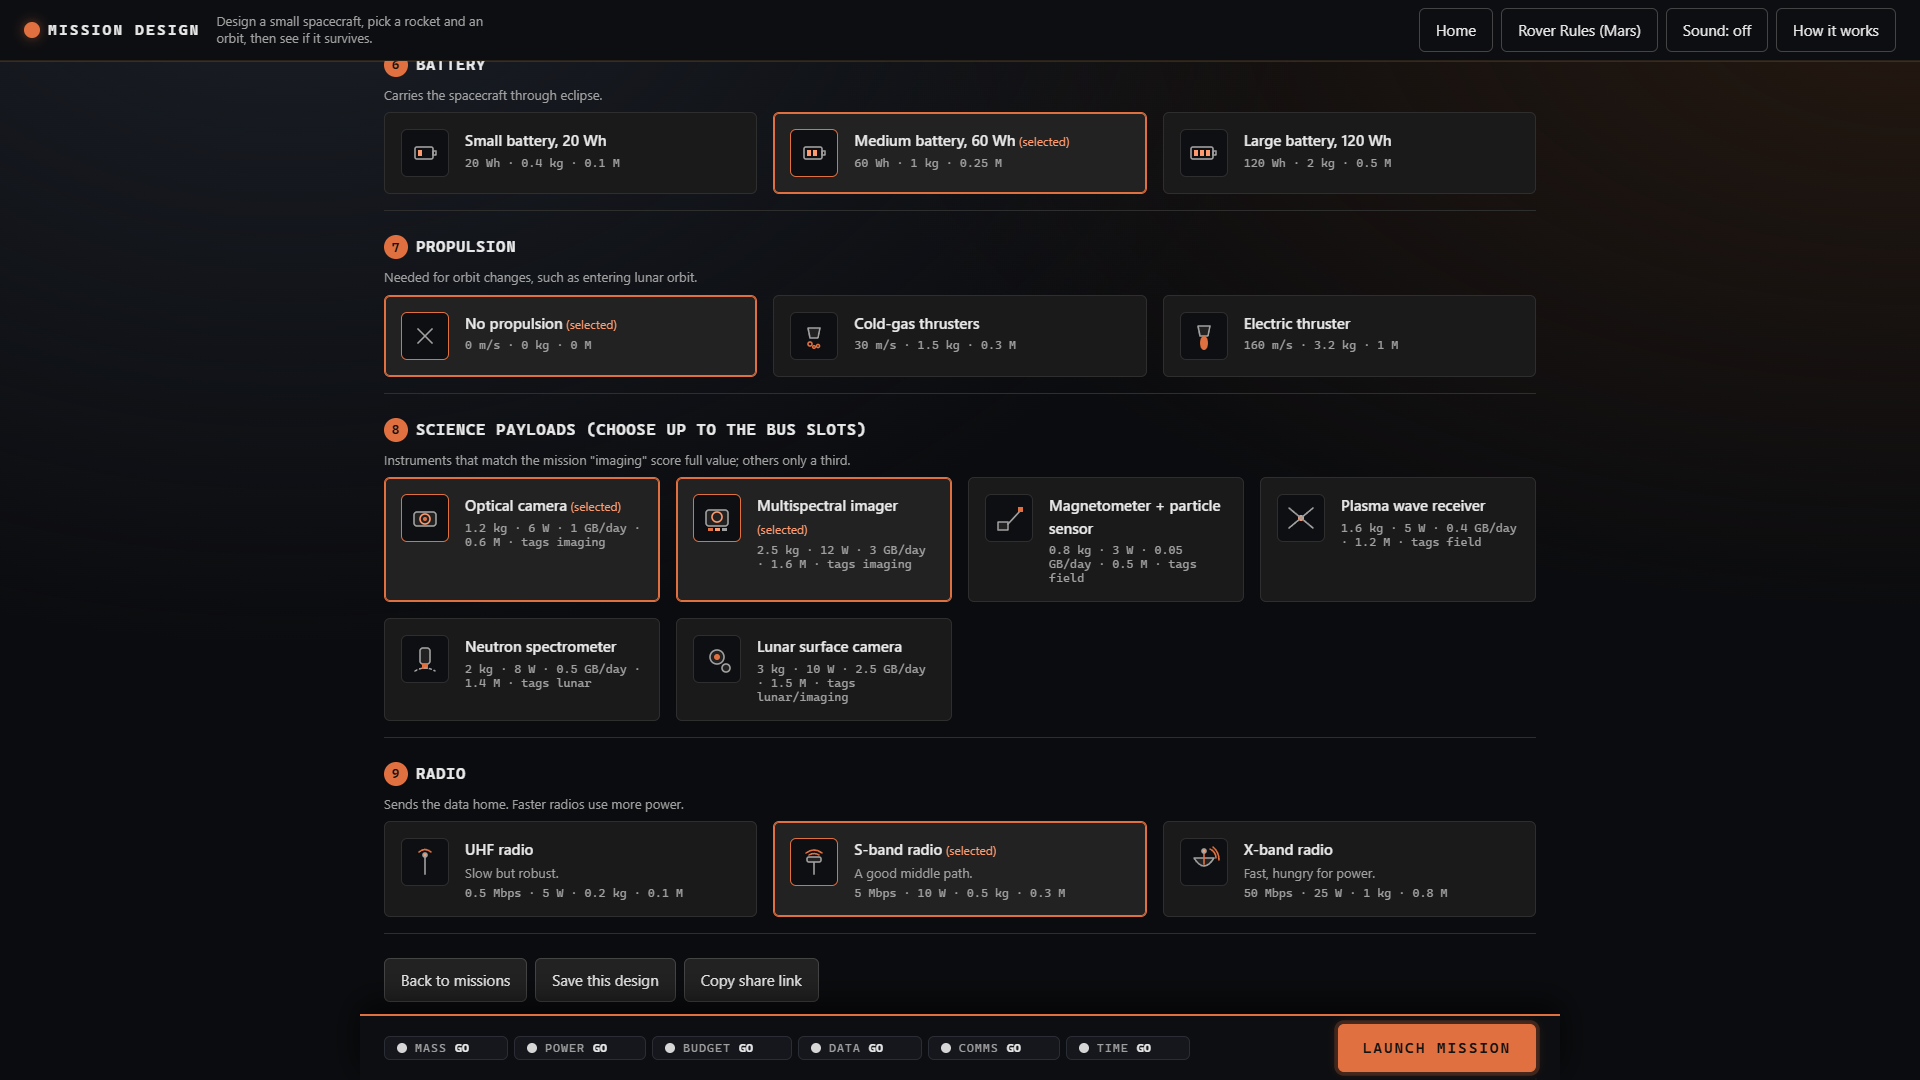
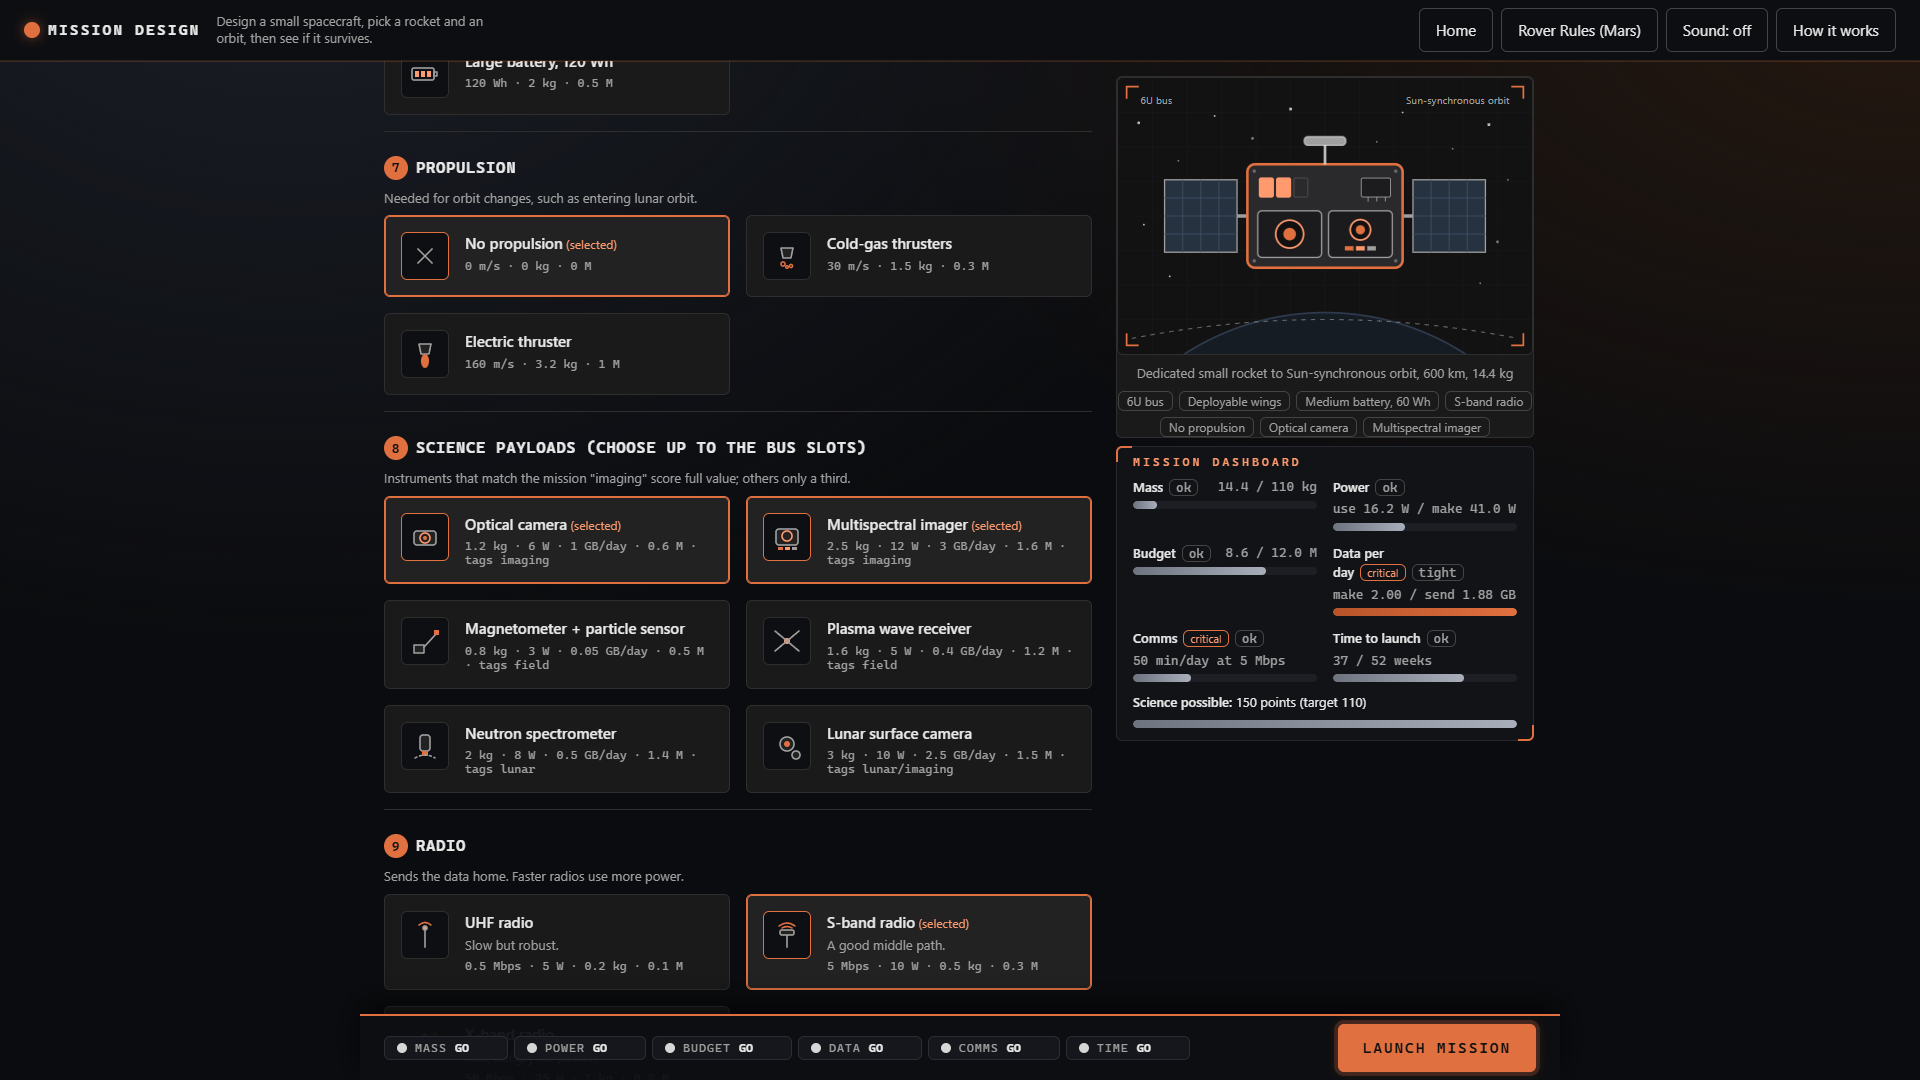
Build screen: spacecraft and six-limit readouts stay in view while scrolling (sticky side column on desktop, sticky top on phone), compact launch bar on phone, test
Claude-Session: https://claude.ai/code/session_01EwYtihfGyNyLM5DBENJYFK

diff --git a/rover/game.css b/rover/game.css
@@ -8,7 +8,7 @@ main { padding-top: var(--s2); }
 @keyframes enter { from { opacity: 0; transform: translateY(8px); } to { opacity: 1; transform: none; } }
 
 /* HUD panels: corner brackets */
-.card, .dash.hangar { position: relative; background: #121317; border-color: #262930; }
+.card { position: relative; background: #121317; border-color: #262930; }
 .card::before, .card::after { content: ""; position: absolute; width: 14px; height: 14px; border: 2px solid var(--accent); pointer-events: none; }
 .card::before { top: -1px; left: -1px; border-right: 0; border-bottom: 0; border-top-left-radius: var(--r); }
 .card::after { bottom: -1px; right: -1px; border-left: 0; border-top: 0; border-bottom-right-radius: var(--r); }
@@ -40,8 +40,6 @@ main { padding-top: var(--s2); }
 .panel-col .grp > h3 { font-size: 16px; letter-spacing: .04em; text-transform: uppercase; font-family: var(--mono); }
 
 /* hangar: spacecraft stage + HUD readouts */
-.dash.hangar { position: static !important; display: grid; grid-template-columns: minmax(300px, 500px) minmax(0, 1fr); gap: var(--s3); align-items: start; margin-bottom: var(--s3); padding: var(--s2); }
-.dash.hangar figure.stage { margin: 0; }
 .hudcol h3 { font: 600 12px var(--mono); letter-spacing: .24em; text-transform: uppercase; color: var(--accent-hi); margin: 0 0 var(--s1); }
 .hudgrid { display: grid; grid-template-columns: repeat(auto-fit, minmax(230px, 1fr)); gap: 4px var(--s3); }
 .hudgrid .res { margin: 0 0 var(--s1); }
@@ -51,7 +49,6 @@ main { padding-top: var(--s2); }
 .bar > i { border-radius: 4px; background: linear-gradient(90deg, #6d7480, #a8afba); }
 .bar.warn > i { background: linear-gradient(90deg, #b8542a, var(--accent)); }
 .bar.bad > i { background: linear-gradient(90deg, var(--accent), var(--accent-hi)); }
-@media (max-width: 900px) { .dash.hangar { grid-template-columns: 1fr; } }
 
 /* sticky pre-launch bar */
 .launchbar { position: sticky; bottom: 0; z-index: 8; display: flex; flex-wrap: wrap; align-items: center; justify-content: space-between; gap: var(--s2); margin: var(--s3) calc(var(--s3) * -1) 0; padding: var(--s1) var(--s3); background: #0d0e11f2; border-top: 2px solid var(--accent); box-shadow: 0 -10px 30px #000a; }
@@ -120,9 +117,38 @@ svg.liftoff.go .streak { animation: streak .45s linear infinite; }
 @media (max-width: 700px) { .launchbar { margin-left: calc(var(--s2) * -1); margin-right: calc(var(--s2) * -1); padding: var(--s1) var(--s2); } }
 
 .res .row { flex-wrap: wrap; row-gap: 2px; } .res .stat { white-space: nowrap; }
-.hudcol .hint { margin: 0 0 var(--s2); }
 .fl-scene.orbit svg { aspect-ratio: 480 / 320; }
 .fl-scene.flare svg { outline: 3px solid var(--accent-hi); box-shadow: 0 0 36px #e0703f66; }
 .fl-scene.outage svg { outline: 3px dashed var(--dim); }
 .fl-grid:has(.fl-scene.orbit) { grid-template-columns: minmax(300px, 480px) minmax(0, 1fr); }
 .badgebox { display:grid; grid-template-columns:repeat(auto-fit,minmax(230px,1fr)); gap:8px; margin-top:var(--s1); } .badgebox .badge-new { margin-top:0; }
+
+/* build screen: the spacecraft stays in view while you scroll through the parts */
+.build-grid { display: block; }
+.dash.side { position: static; }
+.dash.side figure.stage { margin: 0 0 var(--s1); }
+.dash.side .hudcol { padding: var(--s1) var(--s2); }
+.hudgrid { grid-template-columns: 1fr 1fr; gap: 2px var(--s2); }
+.hudgrid .res { margin: 0 0 6px; }
+@media (min-width: 901px) {
+  .build-grid { display: grid; grid-template-columns: minmax(0, 1fr) 420px; gap: var(--s3); align-items: start; }
+  .build-grid > .side { grid-column: 2; grid-row: 1; position: sticky; top: 76px; max-height: calc(100vh - 156px); overflow-y: auto; padding-right: 2px; scrollbar-width: thin; }
+  .build-grid > .panel-col { grid-column: 1; grid-row: 1; min-width: 0; }
+}
+@media (max-width: 900px) {
+  header { position: static; }
+  .build-grid > .side { display: contents; }
+  .build-grid > .side figure.stage { position: sticky; top: 0; z-index: 7; margin: 0 calc(var(--s2) * -1) var(--s2); padding: 6px var(--s2); background: #0b0c0f; border-bottom: 1px solid #2a2118; }
+  .build-grid > .side figure.stage svg.craft { max-height: 150px; width: auto; max-width: 100%; margin: 0 auto; border: 0; }
+  .build-grid > .side figure.stage figcaption, .build-grid > .side figure.stage ul.legend { display: none; }
+  .hudgrid { grid-template-columns: 1fr; }
+}
+@media (min-width: 901px) { .build-grid { padding-bottom: 120px; } }
+@media (max-width: 700px) {
+  .gng { display: grid; grid-template-columns: repeat(3, 1fr); gap: 4px; width: 100%; }
+  .gng li { padding: 3px 8px; font-size: 11px; gap: 6px; }
+  .gng li b { min-width: 0; }
+  .lb-actions { width: 100%; }
+  .lb-actions .btn.go-btn { width: 100%; justify-content: center; }
+  .launchbar { gap: 6px; }
+}

diff --git a/rover/src/md_ui.js b/rover/src/md_ui.js
@@ -157,7 +157,7 @@
       h("div", { class: "row" }, h("span", {}, h("b", {}, label), crit(key), h("span", { class: "stat" + (over ? " bad" : "") }, over ? "over the limit" : used / (cap || 1) > 0.9 ? "tight" : "ok")), h("span", {}, text)),
       h("div", { class: "bar " + (over ? "bad" : used / (cap || 1) > 0.9 ? "warn" : "") }, h("i", { style: `width:${clampPct((used / (cap || 1)) * 100)}%` })),
       h("p", { class: "why" }, WHY[key]));
-    return h("aside", { class: "dash card hangar" }, craftSVG(G.design, A), h("div", { class: "hudcol" }, h("h3", {}, "Mission dashboard"), h("div", { class: "hint" }, h("b", {}, sc.title + ": "), sc.objective, " ", sc.hint), h("div", { class: "hudgrid" },
+    return h("aside", { class: "dash side", tabindex: "0", "aria-label": "Your spacecraft and the six limits" }, craftSVG(G.design, A), h("div", { class: "hudcol card" }, h("h3", {}, "Mission dashboard"), h("div", { class: "hudgrid" },
       res("mass", "Mass", A.mass.used, A.mass.cap || 1, A.mass.cap ? `${num(A.mass.used)} / ${A.mass.cap} kg` : `${num(A.mass.used)} kg, this rocket cannot reach this orbit`, A.mass.used > A.mass.cap),
       res("power", "Power", A.power.load, Math.max(A.power.gen, 0.1), `use ${num(A.power.load)} W / make ${num(A.power.gen)} W`, A.power.gen < A.power.load),
       res("budget", "Budget", A.budget.used, A.budget.cap, `${num(A.budget.used)} / ${num(A.budget.cap)} M`, A.budget.used > A.budget.cap),
@@ -181,7 +181,7 @@
     const d = G.design, sc = MD.SCENARIOS[d.scenario], A = MD.analyse(d), roles = Object.keys(MD.ROLES);
     const owned = G.role === "all" ? ["launcher", "orbit", "ground", "bus", "solar", "battery", "prop", "payloads", "comms"] : roleKeys(G.role);
     const banner = G.mode === "sandbox" ? "Sandbox: limits only warn here and nothing is scored." : G.mode === "comp" && G.comp ? `${G.compNames[G.comp.idx]} is designing (team ${G.comp.idx + 1} of ${G.compN}). Same mission and same random events for every team. One launch per team.` : "";
-    const panel = [banner ? h("div", { class: "msg", role: "status" }, banner) : null, G.note ? h("div", { class: "msg", role: "status" }, G.note) : null, tourCard()];
+    const panel = [banner ? h("div", { class: "msg", role: "status" }, banner) : null, G.note ? h("div", { class: "msg", role: "status" }, G.note) : null, tourCard(), h("div", { class: "hint" }, h("b", {}, sc.title + ": "), sc.objective, " ", sc.hint)];
     if (G.players > 1) {
       panel.push(h("div", { class: "roles", role: "tablist" }, roles.map((r) => h("button", { role: "tab", "aria-selected": G.role === r, class: G.approved.has(r) ? "ok" : "", onclick: () => { G.role = r; render(); } }, `${MD.ROLES[r].name}`))));
       const r = MD.ROLES[G.role];
@@ -196,8 +196,7 @@
     return h("div", {},
       h("div", { class: "steps" }, h("span", {}, "1 Mission"), h("span", { class: "on", "aria-current": "step" }, "2 Design"), h("span", {}, "3 Launch and results")),
       h("h1", {}, "Design your spacecraft"),
-      dashboard(A, sc),
-      h("div", { class: "panel-col" }, panel),
+      h("div", { class: "build-grid" }, dashboard(A, sc), h("div", { class: "panel-col" }, panel)),
       h("div", { class: "row-actions" },
         h("button", { class: "btn", onclick: () => setPhase("setup") }, "Back to missions"),
         h("button", { class: "btn", onclick: () => saveDesign(A) }, "Save this design"),

diff --git a/rover/tools/e2e_tests.js b/rover/tools/e2e_tests.js
@@ -338,4 +338,19 @@ module.exports = async function (H) {
     await page.reload(); expect((await page.locator("#sndBtn").innerText()) === "Sound: on", "remembered");
     await page.ctx.close();
   });
+  // 20. the spacecraft stays in view while scrolling through the parts (desktop side column, phone sticky top)
+  for (const [w, h] of [[1366, 768], [390, 844]]) await test(`spacecraft stays visible while scrolling at ${w}x${h}`, async (problems) => {
+    const page = await newPage({ width: w, height: h }, problems);
+    await startScenario(page, "coast", "Normal");
+    const inView = async () => page.evaluate(() => { const r = document.querySelector("figure.stage svg.craft").getBoundingClientRect(); return r.bottom > 40 && r.top < window.innerHeight - 40 && r.height > 60; });
+    expect(await inView(), "craft not visible before scrolling");
+    await page.evaluate(() => window.scrollTo(0, document.body.scrollHeight));
+    await page.waitForTimeout(250);
+    expect(await inView(), "craft scrolled out of view at the bottom of the parts list");
+    await pick(page, "X-band radio").click();
+    await page.waitForTimeout(250);
+    expect((await page.locator("ul.legend li", { hasText: "X-band radio" }).count()) === 1 || w < 900, "legend should show the new part");
+    expect(await inView(), "craft not visible after changing a part");
+    await page.ctx.close();
+  });
 };
